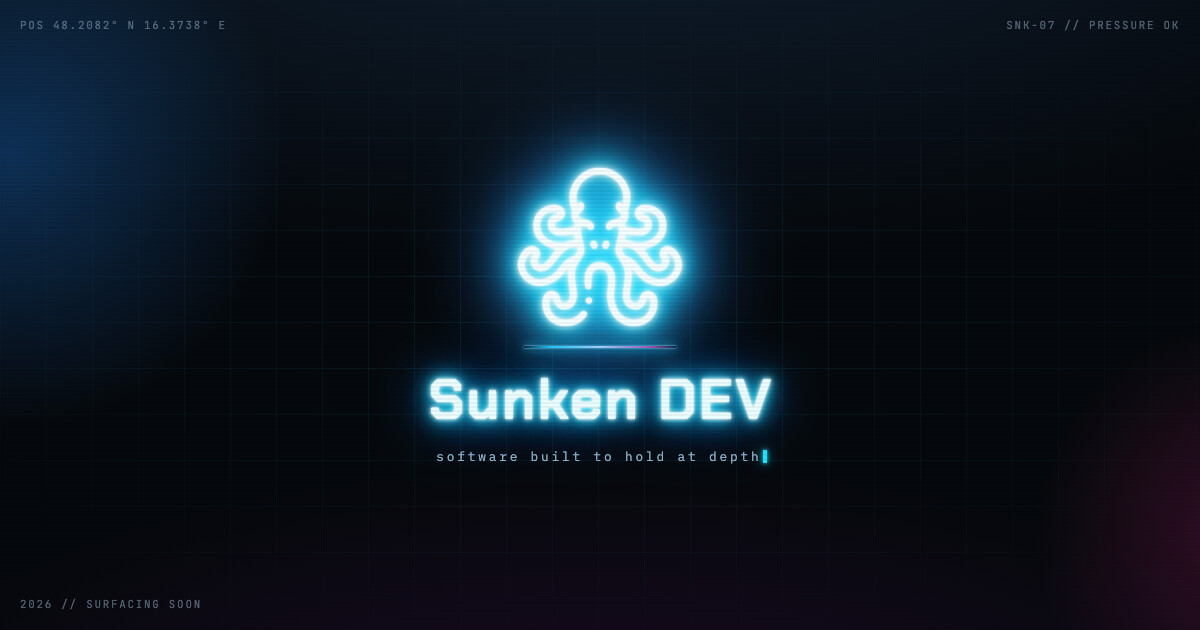
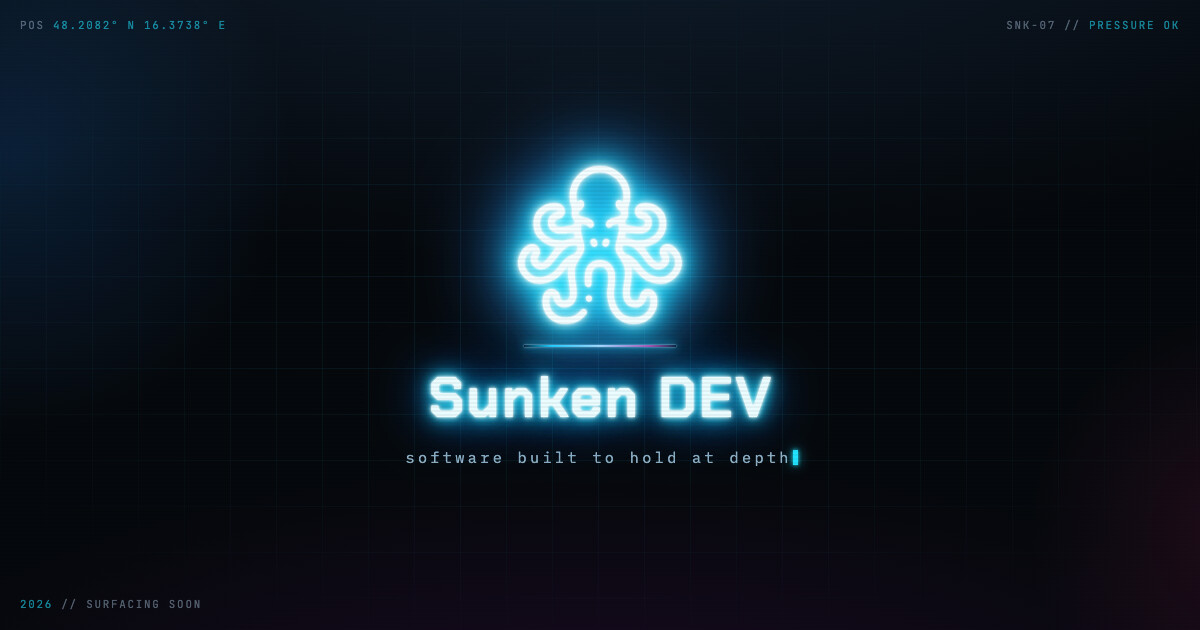
Soften corners, enlarge slogan, highlight readout values
- Halve the caustic pools again so the corner colour reads as depth only
- Raise the slogan size a step
- Pick out the coordinates, pressure status and year in the caret's cyan

diff --git a/index.html b/index.html
@@ -139,7 +139,7 @@
       height: 46vmax;
       top: 4%;
       left: 2%;
-      background: radial-gradient(circle, color-mix(in oklab, var(--glow) 30%, transparent) 0%, transparent 70%);
+      background: radial-gradient(circle, color-mix(in oklab, var(--glow) 17%, transparent) 0%, transparent 72%);
       animation: drift-a 22s ease-in-out infinite alternate;
     }
 
@@ -148,7 +148,7 @@
       height: 36vmax;
       bottom: 4%;
       right: 2%;
-      background: radial-gradient(circle, color-mix(in oklab, var(--magenta) 19%, transparent) 0%, transparent 70%);
+      background: radial-gradient(circle, color-mix(in oklab, var(--magenta) 11%, transparent) 0%, transparent 72%);
       animation: drift-b 28s ease-in-out infinite alternate;
     }
 
@@ -414,7 +414,7 @@
     #slogan {
       margin: clamp(.9rem, 2.4vmin, 1.4rem) 0 0;
       font-family: var(--font-terminal);
-      font-size: clamp(.52rem, 2.1vw, .8rem);
+      font-size: clamp(.6rem, 2.5vw, .95rem);
       font-weight: 400;
       letter-spacing: .22em;
       text-indent: .22em;
@@ -500,6 +500,12 @@
       letter-spacing: .16em;
       white-space: nowrap;
       pointer-events: none;
+    }
+
+    /* Live values share the caret's cyan so the readouts scan as instruments */
+    .hud b {
+      font-weight: inherit;
+      color: var(--cyan);
     }
 
     .hud-tl,
@@ -751,9 +757,9 @@
     <p id="slogan">software built to hold at depth</p>
   </main>
 
-  <div class="hud hud-tl" aria-hidden="true">POS 48.2082&deg; N 16.3738&deg; E</div>
-  <div class="hud hud-tr" aria-hidden="true">SNK-07 // PRESSURE OK</div>
-  <div class="hud hud-bl" aria-hidden="true">2026 // SURFACING SOON</div>
+  <div class="hud hud-tl" aria-hidden="true">POS <b>48.2082&deg; N 16.3738&deg; E</b></div>
+  <div class="hud hud-tr" aria-hidden="true">SNK-07 // <b>PRESSURE OK</b></div>
+  <div class="hud hud-bl" aria-hidden="true"><b>2026</b> // SURFACING SOON</div>
 
   <button id="imprint" class="btn" type="button">Imprint</button>
 
